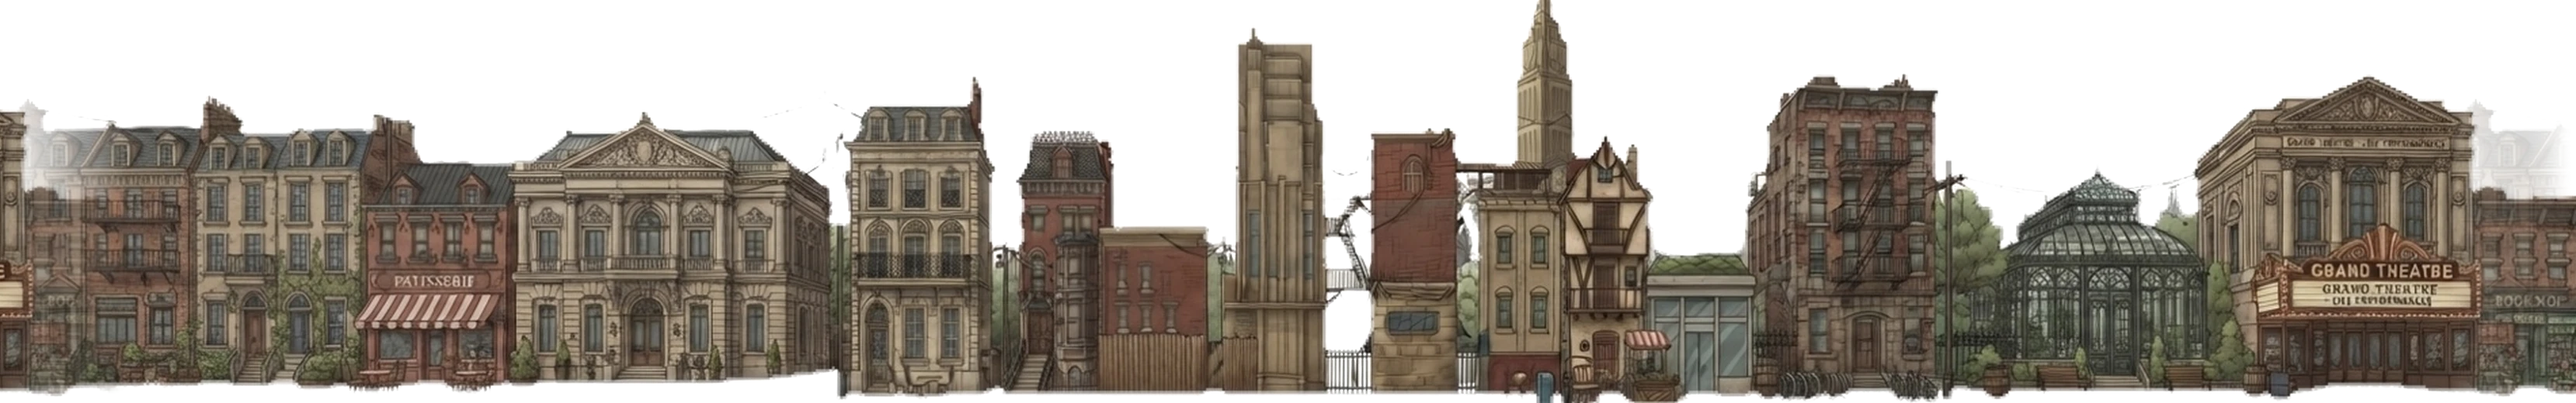
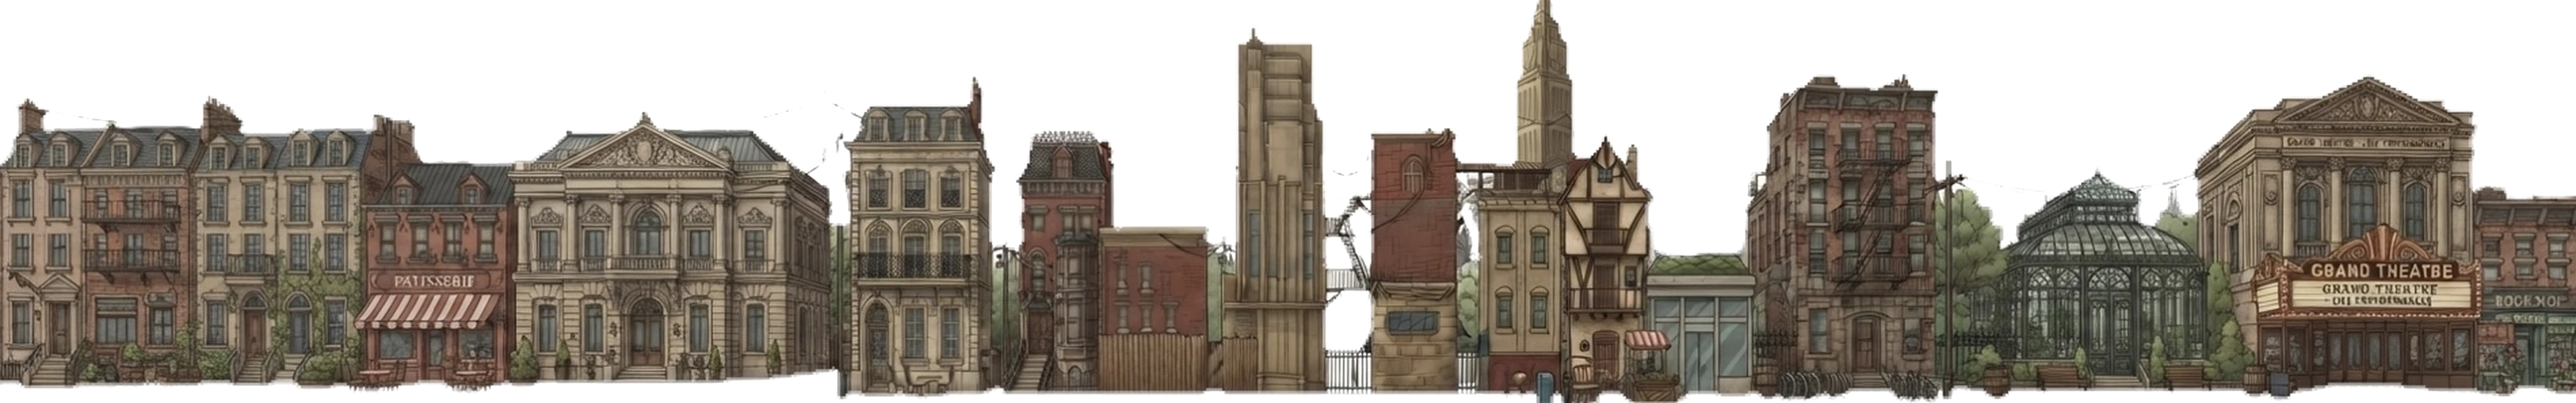
Add files via upload

Changed region(s): [[0.0, 0.2462, 0.0621, 0.9846], [0.9626, 0.2769, 0.9937, 0.4923], [0.9626, 0.9538, 0.9937, 0.9846]]

diff --git a/airborne_aces2.html b/airborne_aces2.html
@@ -3455,6 +3455,24 @@ flyBtn.addEventListener("click", () => { startGame(); });
   // scrolling in sync with the rest of the ground plane. Replaces the old
   // discrete per-building-sprite system. ----------
   const BUILDING_ROW_KEYS = ['streetrow1', 'streetrow2'];
+
+  // Height profiles — measured directly from each image's alpha channel (60
+  // samples across the width, each giving the fraction of the way down from
+  // the top where solid content actually starts). Used so collision follows
+  // the real building silhouette instead of a flat rectangle across the
+  // whole strip — otherwise the player takes damage over open sky above a
+  // short building just because it's within the same tile as a tall one.
+  const STREETROW1_PROFILE = [0.302, 0.302, 0.302, 0.302, 0.24, 0.252, 0.406, 0.348, 0.348, 0.346, 0.365, 0.61, 0.61, 0.61, 0.431, 0.177, 0.15, 0.177, 0.177, 0.177, 0.542, 0.35, 0.35, 0.342, 0.342, 0.35, 0.431, 0.431, 0.431, 0.45, 0.142, 0.012, 0.104, 0.535, 0.448, 0.392, 0.404, 0.419, 0.621, 0.621, 0.625, 0.662, 0.683, 0.302, 0.233, 0.206, 0.202, 0.208, 0.223, 0.198, 0.219, 0.229, 0.433, 0.446, 0.456, 0.46, 0.492, 0.488, 0.452, 0.44];
+  const STREETROW2_PROFILE = [0.242, 0.265, 0.287, 0.31, 0.237, 0.242, 0.317, 0.317, 0.277, 0.287, 0.398, 0.396, 0.348, 0.319, 0.277, 0.275, 0.319, 0.285, 0.265, 0.225, 0.258, 0.258, 0.188, 0.362, 0.323, 0.323, 0.56, 0.56, 0.104, 0.063, 0.104, 0.325, 0.325, 0.315, 0.398, 0.0, 0.0, 0.333, 0.356, 0.625, 0.425, 0.212, 0.183, 0.204, 0.183, 0.217, 0.446, 0.465, 0.408, 0.433, 0.435, 0.317, 0.262, 0.238, 0.192, 0.185, 0.225, 0.269, 0.46, 0.479];
+  const BUILDING_ROW_PROFILES = { streetrow1: STREETROW1_PROFILE, streetrow2: STREETROW2_PROFILE };
+
+  function buildingProfileTopFrac(b, sampleX) {
+    const profile = BUILDING_ROW_PROFILES[buildingRowKey];
+    if (!profile) return 0;
+    const localFrac = Math.max(0, Math.min(0.9999, (sampleX - b.x) / b.w));
+    const idx = Math.floor(localFrac * profile.length);
+    return profile[idx];
+  }
   let buildings = []; // tiles of the current strip: { x, w, h }
   let buildingRowKey = null;
 
@@ -3827,9 +3845,14 @@ flyBtn.addEventListener("click", () => { startGame(); });
     const pBottom = player.y + (player.h / 2) * 0.7;
 
     for (const b of buildings) {
-      const top = groundY - b.h;
-      const overlapsX = px2 > b.x + b.w * 0.08 && px1 < b.x + b.w * 0.92;
-      if (overlapsX && pBottom > top) {
+      const overlapsX = px2 > b.x && px1 < b.x + b.w;
+      if (!overlapsX) continue;
+      // sample the real silhouette height at the player's own position, rather
+      // than treating the whole tile as one flat-topped block
+      const sampleX = Math.max(b.x, Math.min(b.x + b.w, player.x));
+      const topFrac = buildingProfileTopFrac(b, sampleX);
+      const solidTop = (groundY - b.h) + topFrac * b.h;
+      if (pBottom > solidTop) {
         takeHit();
         return;
       }
